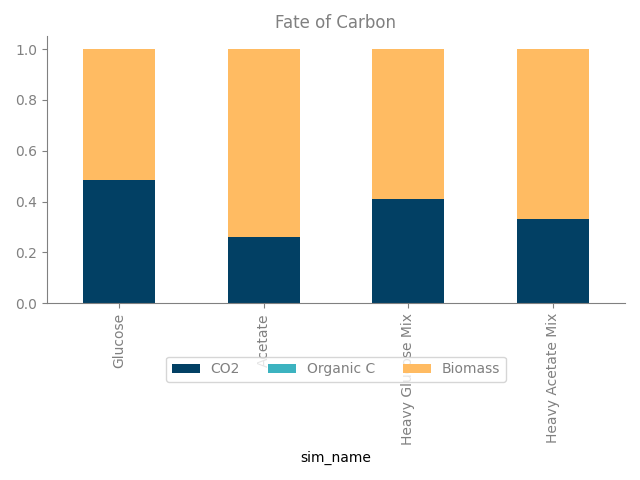
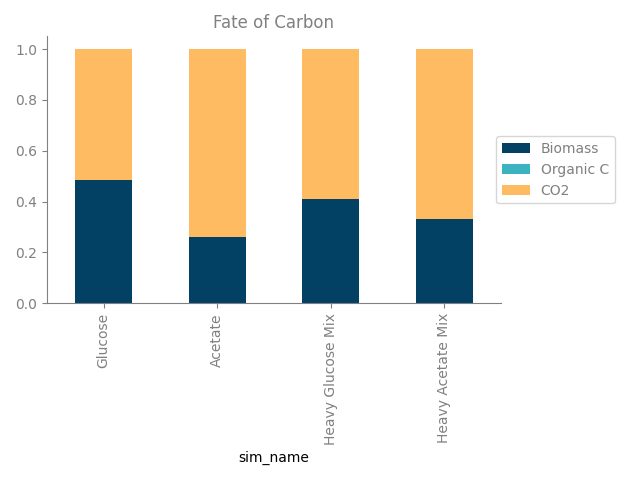
Fix overlapping labels

diff --git a/mit1002_full/glc_and_ace/plot_cue.py b/mit1002_full/glc_and_ace/plot_cue.py
@@ -25,6 +25,7 @@ results = pd.read_csv(os.path.join(OUT_DIR, "results.csv"))
 # Stacked bar plot of the carbon fates for the different conditions
 data = results.set_index("sim_name")[["biomass", "organic_c", "co2"]]
 g = carbon_fates_bar(data)
+plt.tight_layout()
 plt.savefig(os.path.join(output_folder, "carbon_fates.png"))
 
 # Stacked bar plot of the normalized carbon fates for the different conditions
@@ -34,6 +35,7 @@ data_norm = results.set_index("sim_name")[
 # Rename the columns to match the function
 data_norm.columns = ["biomass", "organic_c", "co2"]
 g_norm = carbon_fates_bar(data_norm)
+plt.tight_layout()
 plt.savefig(os.path.join(output_folder, "carbon_fates_norm.png"))
 
 # Subset the results to only include the pFBA on realistic O2

diff --git a/plot_styles.py b/plot_styles.py
@@ -29,12 +29,12 @@ def carbon_fates_bar(data):
     # Plot the stacked bar plot
     g = data.plot(kind="bar", stacked=True, color=[DARK_BLUE, LIGHT_BLUE, LIGHT_ORANGE])
     # Move the legend outside of the plot
-    custom_labels = ["CO2", "Organic C", "Biomass"]
+    custom_labels = ["Biomass", "Organic C", "CO2"]
     lgd = plt.legend(
-        bbox_to_anchor=(0.5, -0.20),
-        loc="upper center",
+        bbox_to_anchor=(1.25, 0.5),
+        loc="center right",
         borderaxespad=0.0,
-        ncol=3,
+        ncol=1,
         labels=custom_labels,
     )
     # Make the legend text gray too
